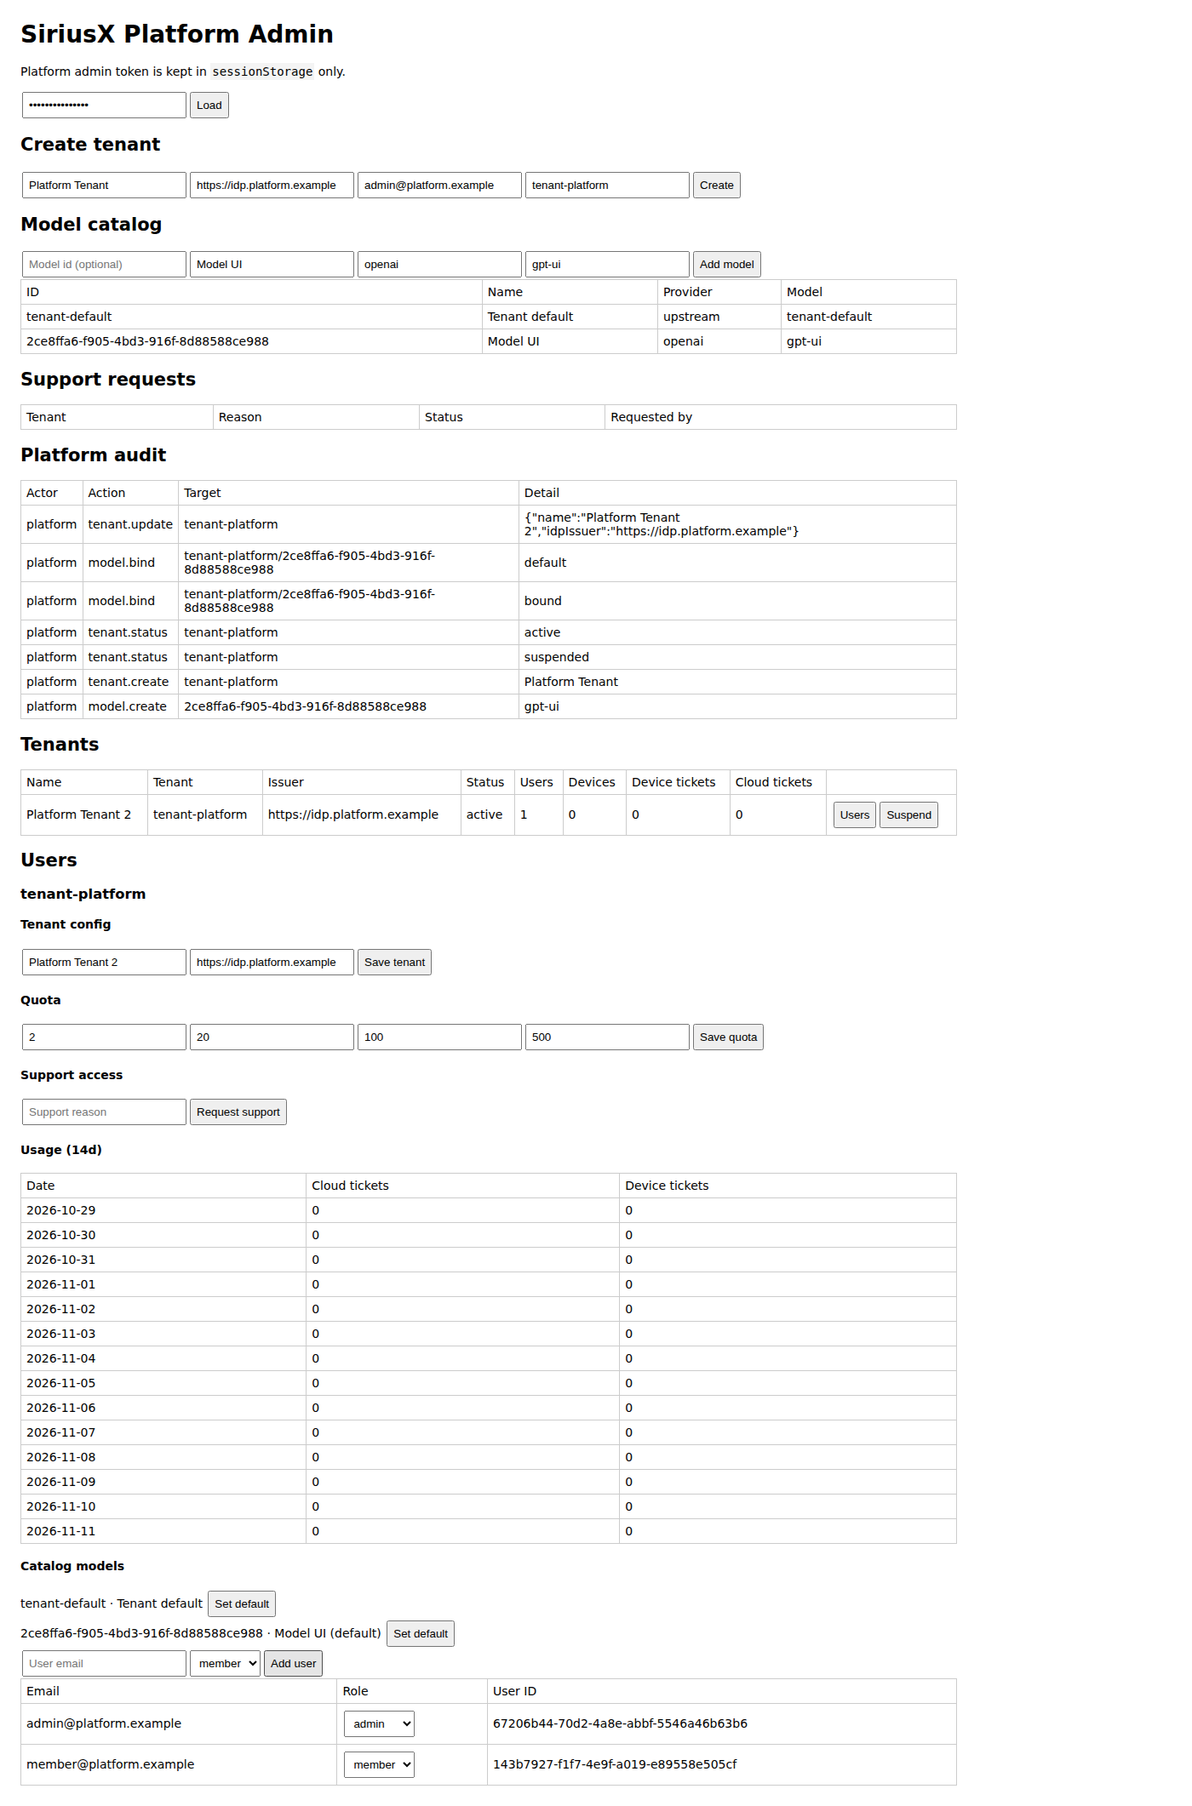
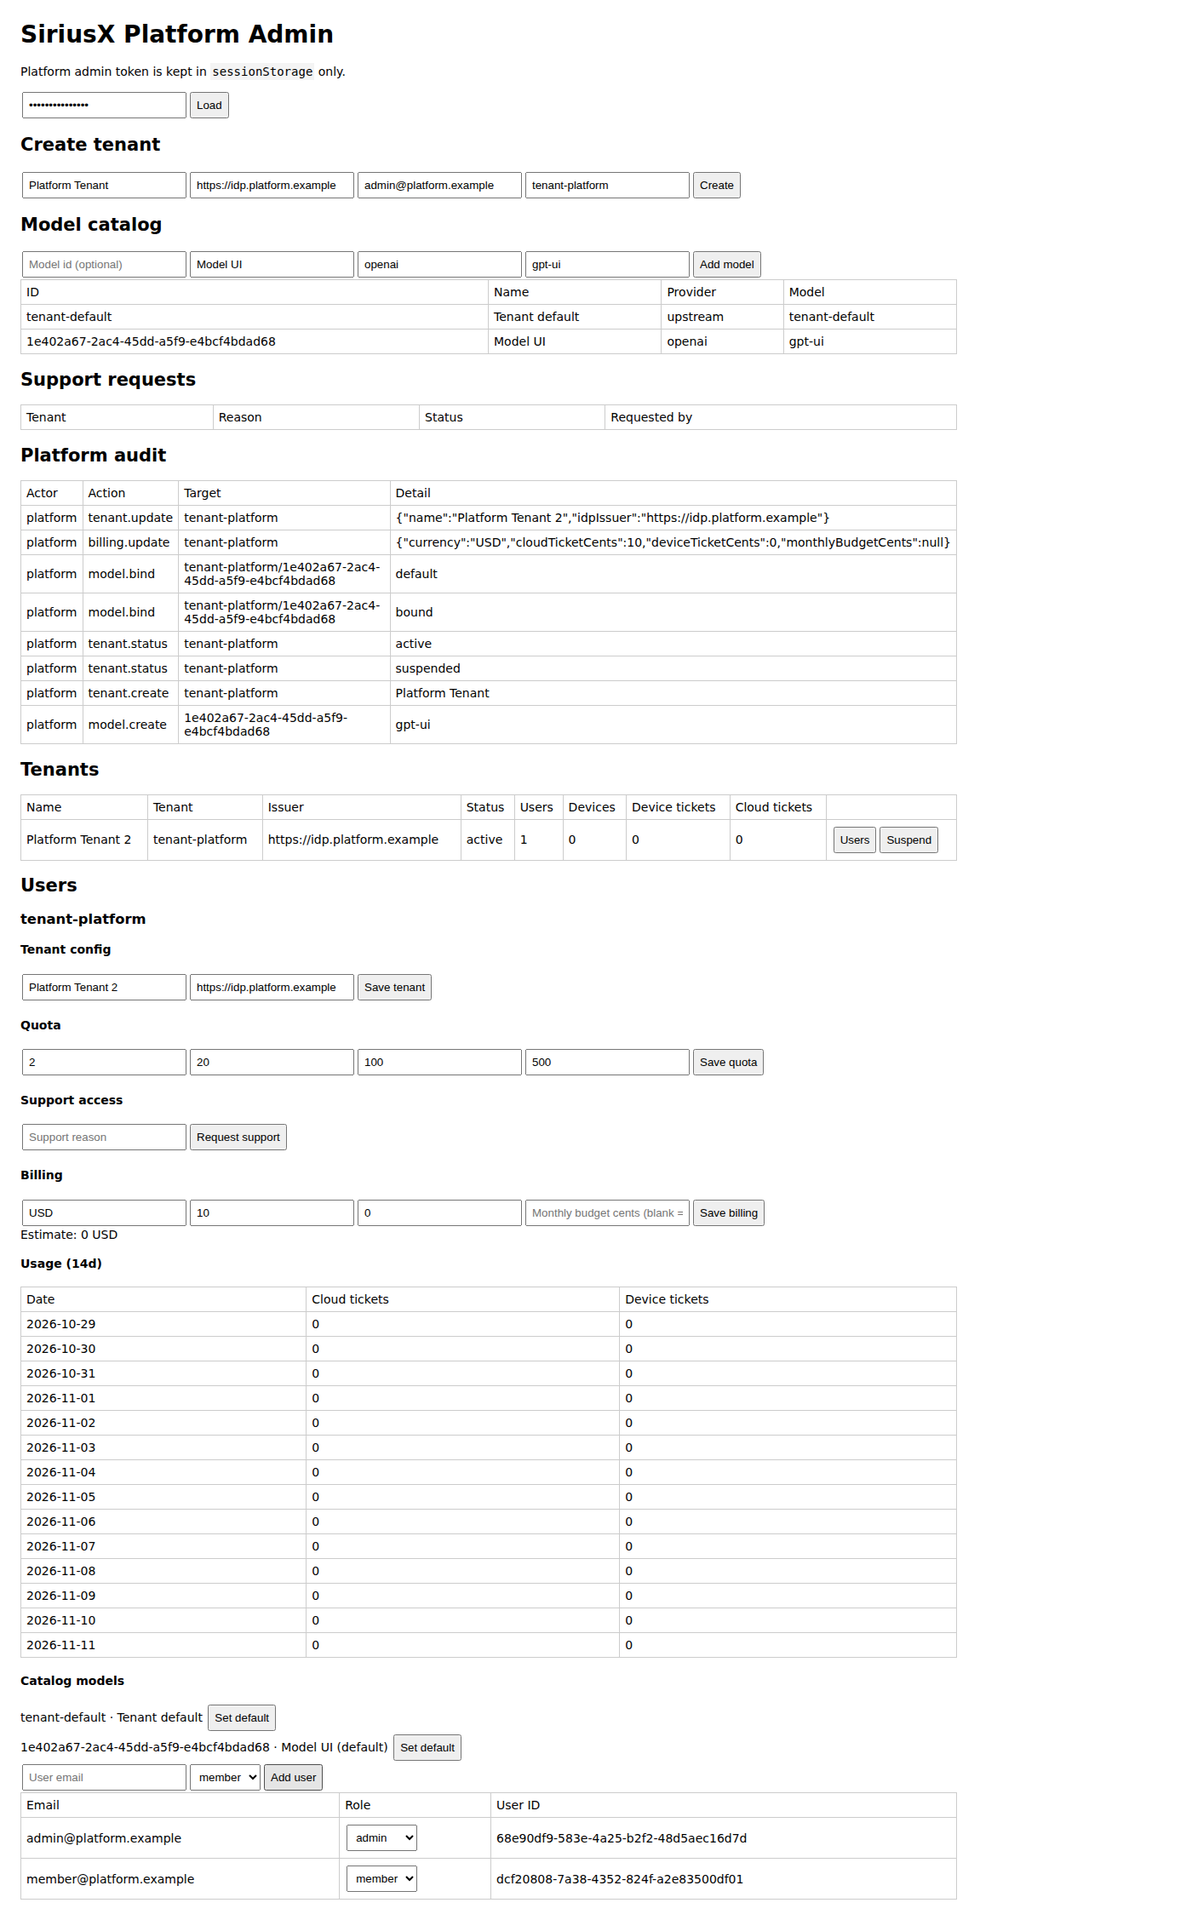
feat: add tenant billing estimates

diff --git a/apps/control-plane/src/index.ts b/apps/control-plane/src/index.ts
@@ -105,6 +105,13 @@ CREATE TABLE IF NOT EXISTS pairing_codes (
   expires_at INTEGER NOT NULL,
   consumed_at INTEGER
 );
+CREATE TABLE IF NOT EXISTS tenant_billing (
+  tenant_id TEXT PRIMARY KEY REFERENCES tenants(id),
+  currency TEXT NOT NULL DEFAULT 'USD',
+  cloud_ticket_cents INTEGER NOT NULL DEFAULT 0,
+  device_ticket_cents INTEGER NOT NULL DEFAULT 0,
+  monthly_budget_cents INTEGER
+);
 CREATE TABLE IF NOT EXISTS support_requests (
   id TEXT PRIMARY KEY,
   tenant_id TEXT NOT NULL REFERENCES tenants(id),
@@ -233,6 +240,7 @@ export class ControlPlane {
     this.#now = options.now ?? Date.now
     this.#db.prepare('INSERT OR IGNORE INTO model_catalog (id, name, provider, model, enabled, created_at) VALUES (?, ?, ?, ?, 1, ?)').run('tenant-default', 'Tenant default', 'upstream', 'tenant-default', this.#now())
     this.#db.prepare('INSERT OR IGNORE INTO tenant_models (tenant_id, model_id, is_default) SELECT id, ?, 1 FROM tenants').run('tenant-default')
+    this.#db.prepare('INSERT OR IGNORE INTO tenant_billing (tenant_id, currency, cloud_ticket_cents, device_ticket_cents, monthly_budget_cents) SELECT id, \'USD\', 0, 0, NULL FROM tenants').run()
     this.#db.prepare('INSERT OR IGNORE INTO tenant_quotas (tenant_id, max_users, max_devices, max_cloud_tickets_per_day, max_device_tickets_per_day, updated_at) SELECT id, 50, 20, 100, 500, ? FROM tenants').run(this.#now())
     const deviceColumns = this.#db.prepare('PRAGMA table_info(devices)').all() as Array<{ name: string }>
     if (!deviceColumns.some(column => column.name === 'token_expires_at')) this.#db.exec('ALTER TABLE devices ADD COLUMN token_expires_at INTEGER')
@@ -265,6 +273,7 @@ export class ControlPlane {
         .run(id, input.name, input.idpIssuer, 'active', now)
       this.#db.prepare('INSERT INTO settings (tenant_id) VALUES (?)').run(id)
       this.#db.prepare('INSERT OR IGNORE INTO tenant_models (tenant_id, model_id, is_default) VALUES (?, ?, 1)').run(id, 'tenant-default')
+      this.#db.prepare('INSERT INTO tenant_billing (tenant_id, currency, cloud_ticket_cents, device_ticket_cents, monthly_budget_cents) VALUES (?, \'USD\', 0, 0, NULL)').run(id)
       this.#db.prepare('INSERT INTO tenant_quotas (tenant_id, max_users, max_devices, max_cloud_tickets_per_day, max_device_tickets_per_day, updated_at) VALUES (?, 50, 20, 100, 500, ?)').run(id, now)
       this.#db.prepare('INSERT INTO users (id, tenant_id, email, role, created_at) VALUES (?, ?, ?, ?, ?)')
         .run(randomUUID(), id, input.adminEmail, 'admin', now)
@@ -294,6 +303,34 @@ export class ControlPlane {
     return (this.#db.prepare('SELECT * FROM tenants ORDER BY created_at, rowid').all() as Array<{
       id: string; name: string; idp_issuer: string; created_at: number; status: 'active' | 'suspended'
     }>).map(row => ({ id: row.id, name: row.name, idpIssuer: row.idp_issuer, createdAt: row.created_at, status: row.status }))
+  }
+
+  getBilling(tenantId: string): { currency: string; cloudTicketCents: number; deviceTicketCents: number; monthlyBudgetCents: number | null } {
+    this.tenantRow(tenantId)
+    const row = this.#db.prepare('SELECT * FROM tenant_billing WHERE tenant_id = ?').get(tenantId) as { currency: string; cloud_ticket_cents: number; device_ticket_cents: number; monthly_budget_cents: number | null } | undefined
+    return row === undefined
+      ? { currency: 'USD', cloudTicketCents: 0, deviceTicketCents: 0, monthlyBudgetCents: null }
+      : { currency: row.currency, cloudTicketCents: row.cloud_ticket_cents, deviceTicketCents: row.device_ticket_cents, monthlyBudgetCents: row.monthly_budget_cents }
+  }
+
+  setBilling(tenantId: string, patch: Partial<{ currency: string; cloudTicketCents: number; deviceTicketCents: number; monthlyBudgetCents: number | null }>): ReturnType<ControlPlane['getBilling']> {
+    this.tenantRow(tenantId)
+    const current = this.getBilling(tenantId)
+    const next = { ...current, ...patch }
+    if (next.currency.length < 3 || next.currency.length > 8) throw new ControlPlaneError(400, 'INVALID_BILLING', 'currency must be 3-8 characters')
+    for (const value of [next.cloudTicketCents, next.deviceTicketCents]) if (!Number.isSafeInteger(value) || value < 0) throw new ControlPlaneError(400, 'INVALID_BILLING', 'ticket prices must be non-negative integers')
+    if (next.monthlyBudgetCents !== null && (!Number.isSafeInteger(next.monthlyBudgetCents) || next.monthlyBudgetCents < 0)) throw new ControlPlaneError(400, 'INVALID_BILLING', 'monthly budget must be null or a non-negative integer')
+    this.#db.prepare('INSERT OR REPLACE INTO tenant_billing (tenant_id, currency, cloud_ticket_cents, device_ticket_cents, monthly_budget_cents) VALUES (?, ?, ?, ?, ?)')
+      .run(tenantId, next.currency, next.cloudTicketCents, next.deviceTicketCents, next.monthlyBudgetCents)
+    return next
+  }
+
+  billingEstimate(tenantId: string, days = 30): { currency: string; cloudTickets: number; deviceTickets: number; estimatedCents: number; monthlyBudgetCents: number | null } {
+    const billing = this.getBilling(tenantId)
+    const usage = this.usageDaily(tenantId, days)
+    const cloudTickets = usage.reduce((sum, day) => sum + day.cloudTickets, 0)
+    const deviceTickets = usage.reduce((sum, day) => sum + day.deviceTickets, 0)
+    return { currency: billing.currency, cloudTickets, deviceTickets, estimatedCents: cloudTickets * billing.cloudTicketCents + deviceTickets * billing.deviceTicketCents, monthlyBudgetCents: billing.monthlyBudgetCents }
   }
 
   createSupportRequest(tenantId: string, requestedBy: string, reason: string): { id: string; status: string; expiresAt: number | null } {

diff --git a/apps/control-plane/src/server.ts b/apps/control-plane/src/server.ts
@@ -162,6 +162,11 @@ async function loadUsers(tenantId) {
   q.querySelector('#saveQuota').onclick = async () => { try { await api('/v1/admin/tenants/' + encodeURIComponent(tenantId) + '/quota', {method:'PUT', body: JSON.stringify({maxUsers:Number(q.querySelector('#maxUsers').value), maxDevices:Number(q.querySelector('#maxDevices').value), maxCloudTicketsPerDay:Number(q.querySelector('#maxCloud').value), maxDeviceTicketsPerDay:Number(q.querySelector('#maxDevice').value)})}); await loadUsers(tenantId); } catch (e) { err(e); } };
   const support = document.createElement('div'); support.innerHTML = '<h4>Support access</h4><input id="supportReason" placeholder="Support reason"><button id="requestSupport">Request support</button>'; host.append(support);
   support.querySelector('#requestSupport').onclick = async () => { try { await api('/v1/admin/tenants/' + encodeURIComponent(tenantId) + '/support-requests', {method:'POST', body: JSON.stringify({reason: support.querySelector('#supportReason').value})}); await loadSupportRequests(); await loadPlatformAudit(); } catch (e) { err(e); } };
+  const billing = await api('/v1/admin/tenants/' + encodeURIComponent(tenantId) + '/billing');
+  const bill = document.createElement('div'); bill.innerHTML = '<h4>Billing</h4><input id="currency" placeholder="Currency"><input id="cloudCents" placeholder="Cloud ticket cents"><input id="deviceCents" placeholder="Device ticket cents"><input id="budget" placeholder="Monthly budget cents (blank = none)"><button id="saveBilling">Save billing</button><div id="billEstimate"></div>'; host.append(bill);
+  bill.querySelector('#currency').value = billing.billing.currency; bill.querySelector('#cloudCents').value = billing.billing.cloudTicketCents; bill.querySelector('#deviceCents').value = billing.billing.deviceTicketCents; bill.querySelector('#budget').value = billing.billing.monthlyBudgetCents ?? '';
+  bill.querySelector('#billEstimate').textContent = 'Estimate: ' + billing.estimate.estimatedCents + ' ' + billing.estimate.currency;
+  bill.querySelector('#saveBilling').onclick = async () => { try { await api('/v1/admin/tenants/' + encodeURIComponent(tenantId) + '/billing', {method:'PUT', body: JSON.stringify({currency: bill.querySelector('#currency').value, cloudTicketCents: Number(bill.querySelector('#cloudCents').value), deviceTicketCents: Number(bill.querySelector('#deviceCents').value), monthlyBudgetCents: bill.querySelector('#budget').value === '' ? null : Number(bill.querySelector('#budget').value)})}); await loadUsers(tenantId); await loadPlatformAudit(); } catch (e) { err(e); } };
   const daily = await api('/v1/admin/tenants/' + encodeURIComponent(tenantId) + '/usage-daily?days=14');
   const trend = document.createElement('div'); trend.innerHTML = '<h4>Usage (14d)</h4>'; host.append(trend);
   const ttable = document.createElement('table'); ttable.append(row(['Date','Cloud tickets','Device tickets'])); for (const day of daily.usage) ttable.append(row([day.date, day.cloudTickets, day.deviceTickets])); trend.append(ttable);
@@ -317,6 +322,21 @@ document.getElementById('createTenant').onclick = async () => { try { await api(
           write(response, upstream.status, await upstream.json())
           return
         }
+        if (parts[2] === 'tenants' && parts[3] !== undefined && parts[4] === 'billing' && parts[5] === undefined) {
+          if (request.method === 'GET') { write(response, 200, { billing: control.getBilling(parts[3]), estimate: control.billingEstimate(parts[3]) }); return }
+          if (request.method === 'PUT') {
+            const body = await readJson(request)
+            const billing = control.setBilling(parts[3], {
+              ...(typeof body.currency === 'string' ? { currency: body.currency } : {}),
+              ...(typeof body.cloudTicketCents === 'number' ? { cloudTicketCents: body.cloudTicketCents } : {}),
+              ...(typeof body.deviceTicketCents === 'number' ? { deviceTicketCents: body.deviceTicketCents } : {}),
+              ...(body.monthlyBudgetCents === null || typeof body.monthlyBudgetCents === 'number' ? { monthlyBudgetCents: body.monthlyBudgetCents } : {}),
+            })
+            control.recordPlatformAudit({ actor: 'platform', action: 'billing.update', target: parts[3], detail: JSON.stringify(billing) })
+            write(response, 200, { billing, estimate: control.billingEstimate(parts[3]) })
+            return
+          }
+        }
         if (parts[2] === 'tenants' && parts[3] !== undefined && parts[4] === 'usage-daily' && parts[5] === undefined) {
           const days = url.searchParams.get('days') === null ? 30 : Number(url.searchParams.get('days'))
           write(response, 200, { days, usage: control.usageDaily(parts[3], days) })
@@ -372,6 +392,10 @@ document.getElementById('createTenant').onclick = async () => { try { await api(
       if (request.method === 'GET' && url.pathname === '/v1/usage-daily') {
         const days = url.searchParams.get('days') === null ? 30 : Number(url.searchParams.get('days'))
         write(response, 200, { days, usage: control.usageDaily(session.tenantId, days) })
+        return
+      }
+      if (request.method === 'GET' && url.pathname === '/v1/billing') {
+        write(response, 200, { billing: control.getBilling(session.tenantId), estimate: control.billingEstimate(session.tenantId) })
         return
       }
       if (request.method === 'GET' && url.pathname === '/v1/audit-summary') {

diff --git a/evidence/S5/15-platform-admin-ui/run.ts b/evidence/S5/15-platform-admin-ui/run.ts
@@ -37,6 +37,9 @@ try {
   await page.waitForTimeout(400)
   await page.getByRole('button', { name: 'Set default' }).last().click()
   await page.waitForTimeout(300)
+  await page.getByPlaceholder('Cloud ticket cents').fill('10')
+  await page.getByRole('button', { name: 'Save billing' }).click()
+  await page.waitForTimeout(300)
   await page.getByPlaceholder('Tenant name').fill('Platform Tenant 2')
   await page.getByRole('button', { name: 'Save tenant' }).click()
   await page.waitForTimeout(400)
@@ -48,9 +51,9 @@ try {
   await page.waitForTimeout(500)
   const body = await page.locator('body').innerText()
   await page.screenshot({ path: '/root/siriusx/evidence/S5/15-platform-admin-ui/admin.png', fullPage: true })
-  const result = { tenant: body.includes('tenant-platform'), suspended, usage: body.includes('Platform Tenant 2'), quota: body.includes('Quota') && body.includes('Save quota'), usageDaily: body.includes('Usage (14d)'), model: body.includes('Model UI') && body.includes('Catalog models'), audit: body.includes('Platform audit') && body.includes('tenant.create'), user: body.includes('member@platform.example'), errors }
+  const result = { tenant: body.includes('tenant-platform'), suspended, usage: body.includes('Platform Tenant 2'), quota: body.includes('Quota') && body.includes('Save quota'), usageDaily: body.includes('Usage (14d)'), billing: body.includes('Billing') && body.includes('Estimate:'), model: body.includes('Model UI') && body.includes('Catalog models'), audit: body.includes('Platform audit') && body.includes('tenant.create'), user: body.includes('member@platform.example'), errors }
   console.log(JSON.stringify(result, null, 2))
-  if (!result.tenant || !result.suspended || !result.usage || !result.quota || !result.usageDaily || !result.model || !result.audit || !result.user || errors.length > 0) process.exitCode = 1
+  if (!result.tenant || !result.suspended || !result.usage || !result.quota || !result.usageDaily || !result.billing || !result.model || !result.audit || !result.user || errors.length > 0) process.exitCode = 1
 } finally {
   await browser.close(); await server.close(); await rm(root, { recursive: true, force: true })
 }

diff --git a/apps/control-plane/tests/control-plane.spec.ts b/apps/control-plane/tests/control-plane.spec.ts
@@ -506,4 +506,13 @@ describe('control plane', () => {
     expect(plane.issueSession({ tenantId: tenant.id, userId: admin.id, role: 'admin' })).toBeTruthy()
   })
 
+  it('stores tenant billing rates and estimates usage cost', async () => {
+    const { plane } = await setup()
+    const tenant = plane.provisionTenant({ tenantId: 'tenant-billing', name: 'Billing', idpIssuer: 'https://idp.example', adminEmail: 'admin@billing.example' })
+    expect(plane.getBilling(tenant.id)).toEqual({ currency: 'USD', cloudTicketCents: 0, deviceTicketCents: 0, monthlyBudgetCents: null })
+    const billing = plane.setBilling(tenant.id, { currency: 'EUR', cloudTicketCents: 100, deviceTicketCents: 10, monthlyBudgetCents: 5000 })
+    expect(billing).toEqual({ currency: 'EUR', cloudTicketCents: 100, deviceTicketCents: 10, monthlyBudgetCents: 5000 })
+    expect(plane.billingEstimate(tenant.id, 7)).toMatchObject({ currency: 'EUR', estimatedCents: 0, monthlyBudgetCents: 5000 })
+  })
+
 })

diff --git a/docs/status.md b/docs/status.md
@@ -8,7 +8,7 @@
 | S3 本机闭环 | `packages/executor-local`、`plugins/executor-local`、`apps/autobot` | `evidence/S3/` | **完成**：真实 DSH AgentLoop、Bot/DSH Web Host SIGKILL/重启、模型断线、previews/TTL/进程组清理/env 隔离/symlink 越界防护、lost 自动 resume 重试、sandbox orphan sweep + systemd timer 通过；tag `executor-v0.1.0` |
 | S4 工单界面 | 四个独立 client package + `packages/app-contract` + `apps/autobot/src/server.ts` | `evidence/S4/` | **部分**：发起/阶段/diff/排序/断线清空/审批/慢任务打断、四插件拆分通过；10 天自用待补 |
 | S5 登录/租户 | `plugins/account-sso`、`apps/control-plane`（含 device gateway/model gateway）、Desktop enterprise gate | `evidence/S5/` | **部分**：OIDC/隔离/配对/长连接/模型网关/隐私 badge/个人 Bot 派工/原生入口管理员开关、全栈离线一键安装、session TTL 过期拒绝、server-side revocation、server-side authority 通过；真实 IdP、KMS 待补 |
-| S6 工具网关 | `apps/tool-gateway`、`packages/analytics`、local_dir 上行过滤 | `evidence/S6/` | **部分**：审批过期 sweep/审计/fail-closed/分级/Bot 事件接线/完整 ticket trace + audit chain 状态 + tenant-scoped audit、管理面 API/UI + 平台运营 `/admin` + tenant quota enforcement、model catalog/binding/runtime enforcement、tenant tool policy/audit summary/platform audit、daily usage trend、tenant SSO/config editing、support access approval、tenant suspend/resume、tool-gateway 默认无 wildcard CORS、audit hash chain + verify endpoint/Vault KV v1+v2、TTL 轮换与 fail-closed 凭据适配、模型 key 抓包隔离、agent env/audit 凭据隔离、设备离线宽限 lost + 宽限期内重连恢复通过；真实 KMS/Vault 待补 |
+| S6 工具网关 | `apps/tool-gateway`、`packages/analytics`、local_dir 上行过滤 | `evidence/S6/` | **部分**：审批过期 sweep/审计/fail-closed/分级/Bot 事件接线/完整 ticket trace + audit chain 状态 + tenant-scoped audit、管理面 API/UI + 平台运营 `/admin` + tenant quota enforcement、model catalog/binding/runtime enforcement、tenant tool policy/audit summary/platform audit、daily usage trend、tenant SSO/config editing、support access approval、tenant suspend/resume/billing estimate、tool-gateway 默认无 wildcard CORS、audit hash chain + verify endpoint/Vault KV v1+v2、TTL 轮换与 fail-closed 凭据适配、模型 key 抓包隔离、agent env/audit 凭据隔离、设备离线宽限 lost + 宽限期内重连恢复通过；真实 KMS/Vault 待补 |
 | S7 云执行 | `packages/cloud-executor`、`packages/kernel-acp` | `evidence/S7/` | **部分**：Docker/ACP/真实 dsh+pi（含 sandbox）/同工单内核一致性、本地/云端 DSH 事件序列一致性、ACP 边界/卷并发决策/云端 repo clone/沙箱 dispose/assignment timeout/资源限额+cap-drop/no-new-privileges+env+出口 allowlist/SQLite 恢复/GitHub/GitLab connector、gateway 审批写、mock Issue→MR 通过；真实平台 Issue→MR、M2 真崩溃待补 |
 | S8 发布 | `plugins/brand-siriusx`、`deploy/release`、`deploy/offline` | `evidence/S8/` | **部分**：品牌/图标/打包参数、Linux 全依赖离线 tar（含 sandbox image）、DSH Web 离线镜像、全栈 Compose、internal 网络隔离、断网 Debian 容器安装、native/Docker 单机安装、全栈离线一键包、health version/commit、`/ready` 就绪探针、Compose healthcheck、企业插件 bundle/资源清单、更新源 static feed（realpath 防 traversal）、本地发布门禁、脚本可移植性检查、发布清单、CycloneDX SBOM（transitive + license）+ license policy gate、补丁回移演练通过；mac/win 签名安装与全服务干净机验收待补 |
 | S9 Web | DSH Web Host + Team panel control-plane 模式 | `evidence/S9/` | **部分**：同插件复用、两租户隔离、HttpOnly cookie 同源网关、OIDC state cookie 绑定、浏览器 OIDC（本地 HS256/RS256 JWKS IdP）登录并看工单、同工单跨接入模式渲染一致、无原生对话/本地目录入口、Web 审批、HTTP/WS Origin 校验（支持 forwarded headers）、登录限流/trusted proxy IP、1 MiB 请求体/WS frame 上限、Secure cookie、login CSP/HSTS、local logout / OIDC RP-initiated logout、云端 repo URL 校验、项目发起/打断/重启对账/follow-up（API + Team UI，Docker+fake ACP）通过；真实企业 IdP/真实 agent 待补 |

diff --git a/evidence/S5/15-platform-admin-ui/README.md b/evidence/S5/15-platform-admin-ui/README.md
@@ -13,7 +13,7 @@ Control Plane 新增独立 `/admin` 页面：
 - 创建 `tenant-platform`
 - 页面显示 Platform Tenant 与 usage 计数
 - 新增 `member@platform.example`
-- 新增 Model UI，保存租户 quota，展示 14 天 usage，编辑 tenant name/issuer、Suspend/Resume，绑定模型，Platform audit 显示 tenant.create
+- 新增 Model UI，保存租户 quota，展示 14 天 usage、Billing 估算，编辑 tenant name/issuer、Suspend/Resume，绑定模型，Platform audit 显示 tenant.create
 - console errors 为空
 
 CSP：

diff --git a/evidence/S5/22-billing/README.md b/evidence/S5/22-billing/README.md
@@ -1,0 +1,9 @@
+# Tenant billing estimate
+
+- `tenant_billing`：currency、cloudTicketCents、deviceTicketCents、monthlyBudgetCents
+- `GET/PUT /v1/admin/tenants/:id/billing`
+- `billingEstimate(tenantId, days)` 基于 usageDaily 计算估算成本
+- Platform admin 页面提供 Billing 表单与 Estimate
+
+测试验证默认 USD、更新 EUR、预算与估算。
+证据：`test.txt`、`typecheck.txt`、`ui-typecheck.txt`、`../15-platform-admin-ui/admin.png`。

diff --git a/TODO.md b/TODO.md
@@ -73,6 +73,7 @@
 - [x] Tenant SSO/config editing + platform audit
 - [x] Emergency support access request/approval workflow
 - [x] Tenant suspend/resume + platform audit
+- [x] Tenant billing rates + estimated cost
 - [x] Web Gateway 支持 X-Forwarded-Proto/Host 的 HTTPS Origin
 - [x] Trusted proxy 下的登录限流按 X-Forwarded-For 区分客户端
 - [x] HTTPS 下返回 HSTS
